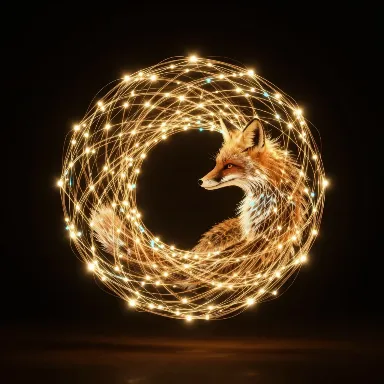
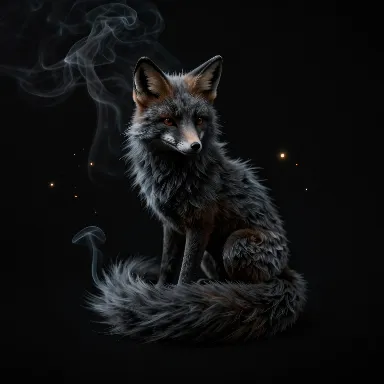
The black smoke fox, and mirage on the runtime's imagejob
The mascot's final identity : one character — a small fox of black smoke; each theme only lights her its own way. All five picker thumbs regenerated under the strict contract (the loose wording let lum render a red fox). mirage drops its local race.js for /_rt/imagejob.js (ext derived from the blob at the slide, eSignIn wired in both locales).

diff --git a/apps/mirage/state.js b/apps/mirage/state.js
@@ -6,8 +6,8 @@ import { toEnglish } from "/_rt/translate.js";
 import { writeLastGen } from "/_rt/lastgen.js";
 import { notify, notifyAsk } from "/_rt/notify.js";
 import { holdBackground } from "/_rt/bghold.js";
-import { mockArt, toDataURL } from "./bitmap.js";
-import { startJob, follow, cancelJob } from "./race.js";
+import { mockArt, toDataURL, extOf } from "./bitmap.js";
+import { startJob, follow, cancelJob } from "/_rt/imagejob.js";
 import { styleOf } from "./styles.js";
 
 export const MODES = ["make", "edit", "read", "blend", "style"];
@@ -90,7 +90,7 @@ async function followJob(mode, job, run, ctx, seed) {
     base, job, alive,
     onLive: (live) => patch(mode, { live }),
     onSlide: (s) => {
-      mine.push({ ...s, seed: seed + s.n });
+      mine.push({ url: s.url, w: s.w, h: s.h, by: s.by, n: s.n, ext: extOf(s.blob), seed: seed + s.n });
       patch(mode, { slides: [...mine], more: true, ...(mine.length === 1 ? { idx: 0, phase: "done" } : {}) });
       if (mine.length === 1) {
         if (mode === "make") writeLastGen(s.url, $make.get().prompt).catch(() => {});

diff --git a/apps/mirage/sw.js b/apps/mirage/sw.js
@@ -1,6 +1,6 @@
 self.MS = {
   app: "mirage",
-  version: "95ce3f6ecd",
+  version: "935c683bee",
   precache: [
     "./",
     "./bitmap.js",
@@ -13,7 +13,6 @@ self.MS = {
     "./lightbox.js",
     "./manifest.json",
     "./mirage.frag",
-    "./race.js",
     "./source.js",
     "./spec.json",
     "./state.js",
@@ -39,6 +38,7 @@ self.MS = {
     "/_rt/glstage.js",
     "/_rt/hero.js",
     "/_rt/i18n.js",
+    "/_rt/imagejob.js",
     "/_rt/index.js",
     "/_rt/lastgen.js",
     "/_rt/material.js",

diff --git a/docs/research/mascot.md b/docs/research/mascot.md
@@ -1,10 +1,29 @@
-# The mascot — a feline that does not exist (2026-09-01: Kotyk-Zirka shipped, then the FOX won)
 
-**Final decision, the same evening: mirage's curled fox.** The owner saw the cat in the picker and
-preferred the fox from mirage's style cards ("мені вона більше подобається"), so the picker's pictures are
+**Final identity: one character — a small fox of black smoke.** Not a material-shifting shape (the cat,
+then mirage's per-material fox, both retired): she IS black smoke, and each theme only lights her its own
+way. The prompt contract (validated on the pods; the loose first cut let lum render a RED fox — the
+"sculpted ONLY from black smoke, dark charcoal monochrome body, no fur texture, no orange" wording is what
+holds her identity):
+
+    a small fox sculpted ONLY from black smoke, dark charcoal monochrome body, no fur texture, no orange,
+    frozen mid-swirl, fine volumetric tendrils, the smoke itself forms the fox, no real fox, sitting curled
+    with a long flowing smoke tail, calm, full body, centred, plenty of empty space around it, no text
+    + the theme's light: lum "on pure black, faint warm amber gold and electric cyan sparks WITHIN the
+    smoke" · paper "on pure white paper, charcoal ink-smoke, gilded gold edge glints" · ink "blooming like
+    ink in clear water on pure white, fine vermilion wisps" · mercury "on pure black, cold silver glints,
+    droplets of liquid chrome caught in the smoke" · plain "plain dark grey studio, neutral grey-black smoke"
+
+Picker thumbs cut by `mascot-tools/fox-thumbs.mjs` (2026-09-02 picks: lum c · paper a · ink a · mercury a ·
+plain b). She is also the face of empty states and the store's hero (the `--ds-mascot` hook). History below.
+
+---
+
+# (history) 2026-09-01: Kotyk-Zirka shipped, then the material fox
+
+**That evening: mirage's curled fox.** The owner saw the cat in the picker and
+preferred the fox from mirage's style cards ("мені вона більше подобається"), so the picker's pictures were
 the fox masters mirage already had (lum, paper, ink, chrome → mercury) plus a clay fox for Просто, cut by
-`docs/research/mascot-tools/fox-thumbs.mjs`. The fox prompt, for the next material: "a fox curled into a
-circle, <material block>, the <material> itself forms the fox, no real fox". Kotyk-Zirka stays below as a
+`docs/research/mascot-tools/fox-thumbs.mjs`. Kotyk-Zirka stays below as a
 record; nothing in the product references it.
 
 ---
